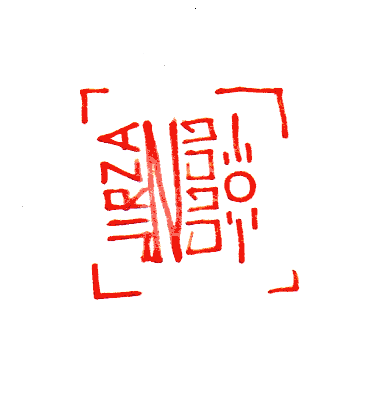
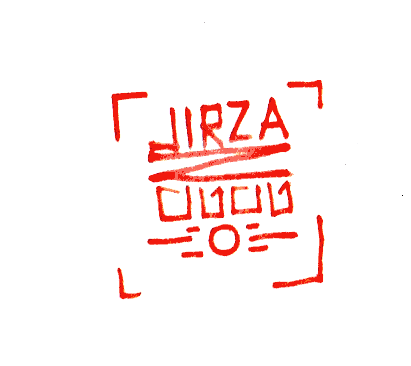
Razítko o 90 stupňů po směru hodinových ručiček
Otisk je na podkladu otočený doleva, rovná se při zpracování, ne v CSS —
v CSS sedí jen to lehké natočení, aby razítko nevypadalo přiložené pravítkem.

Changed region(s): [[0.2104, 0.2104, 0.7213, 0.8415], [0.6612, 0.571, 0.8415, 0.8115], [0.571, 0.2104, 0.8115, 0.3306]]

diff --git a/tools/skici.py b/tools/skici.py
@@ -179,12 +179,17 @@ RAZITKO = KOREN / "podklady" / "razitko"
 
 
 def zpracuj_razitko() -> str:
-    """Razítko ateliéru projde stejnou cestou jako skici — zbude jen tuš."""
+    """Razítko ateliéru projde stejnou cestou jako skici — zbude jen tuš.
+
+    Otisk je na podkladu otočený o čtvrt otáčky doleva, proto se rovná
+    o 90° po směru hodinových ručiček.
+    """
     zdroje = sorted(RAZITKO.glob("*.jp*g")) + sorted(RAZITKO.glob("*.png")) if RAZITKO.exists() else []
     if not zdroje:
         return ""
     with Image.open(zdroje[0]) as nactene:
         rovne = ImageOps.exif_transpose(nactene).convert("RGB")
+    rovne = rovne.rotate(-90, expand=True)
     kresba = pruhledne(vybel_papir(rovne))
     VEN.mkdir(parents=True, exist_ok=True)
     zmensene = zmensi(kresba, min(600, kresba.size[0]))
